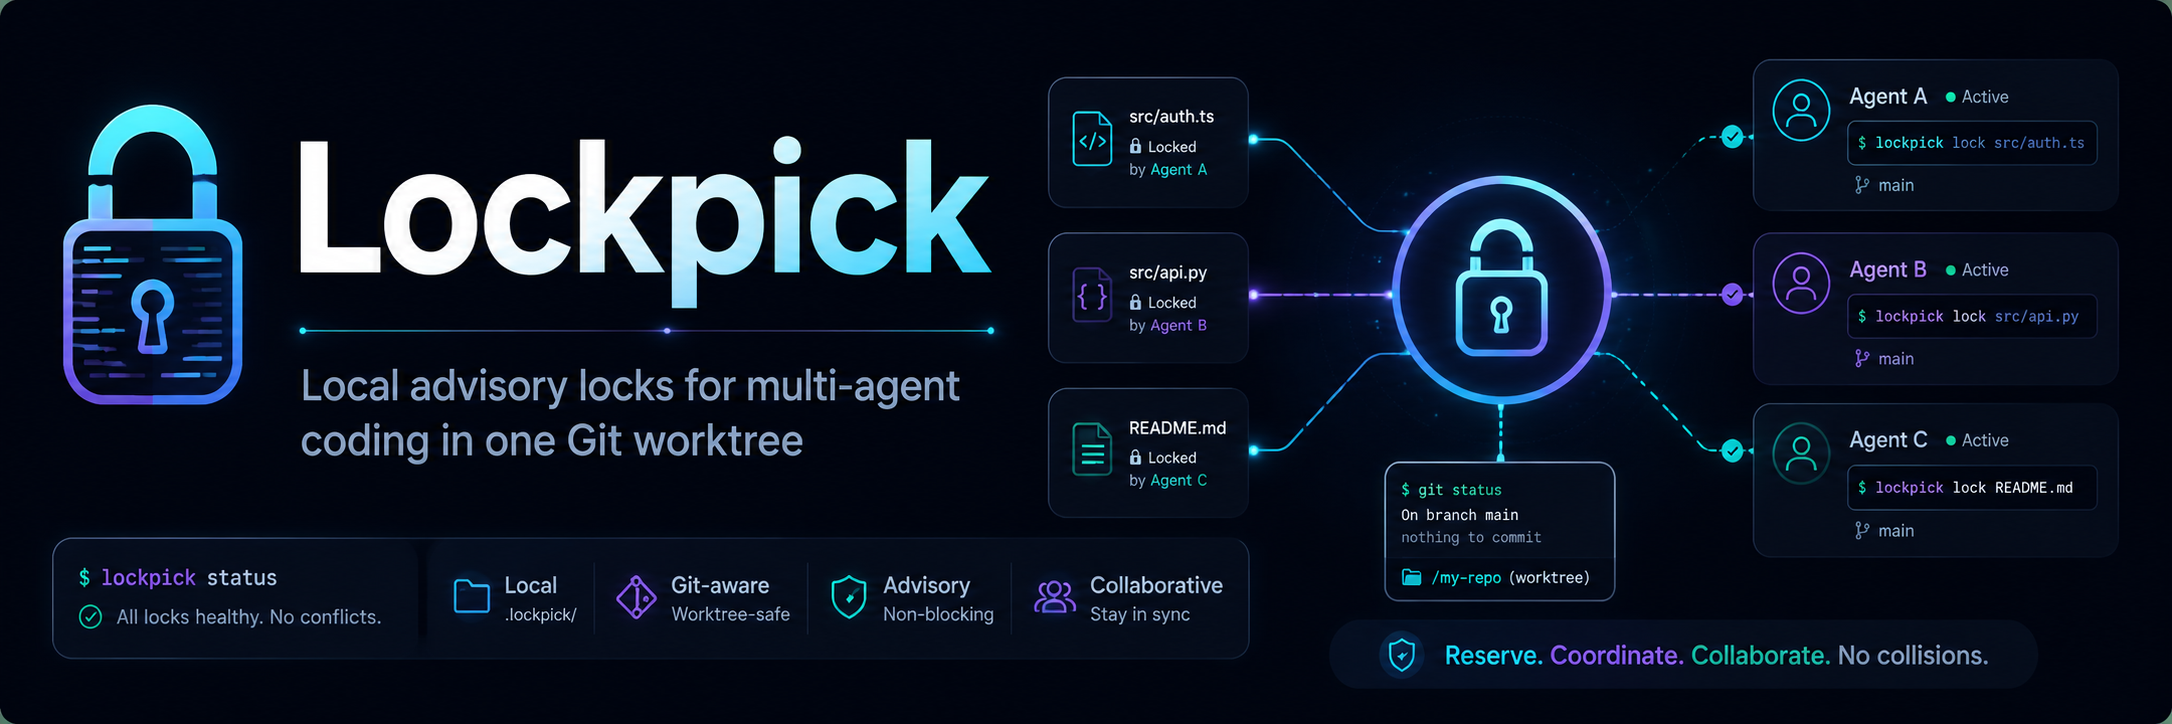
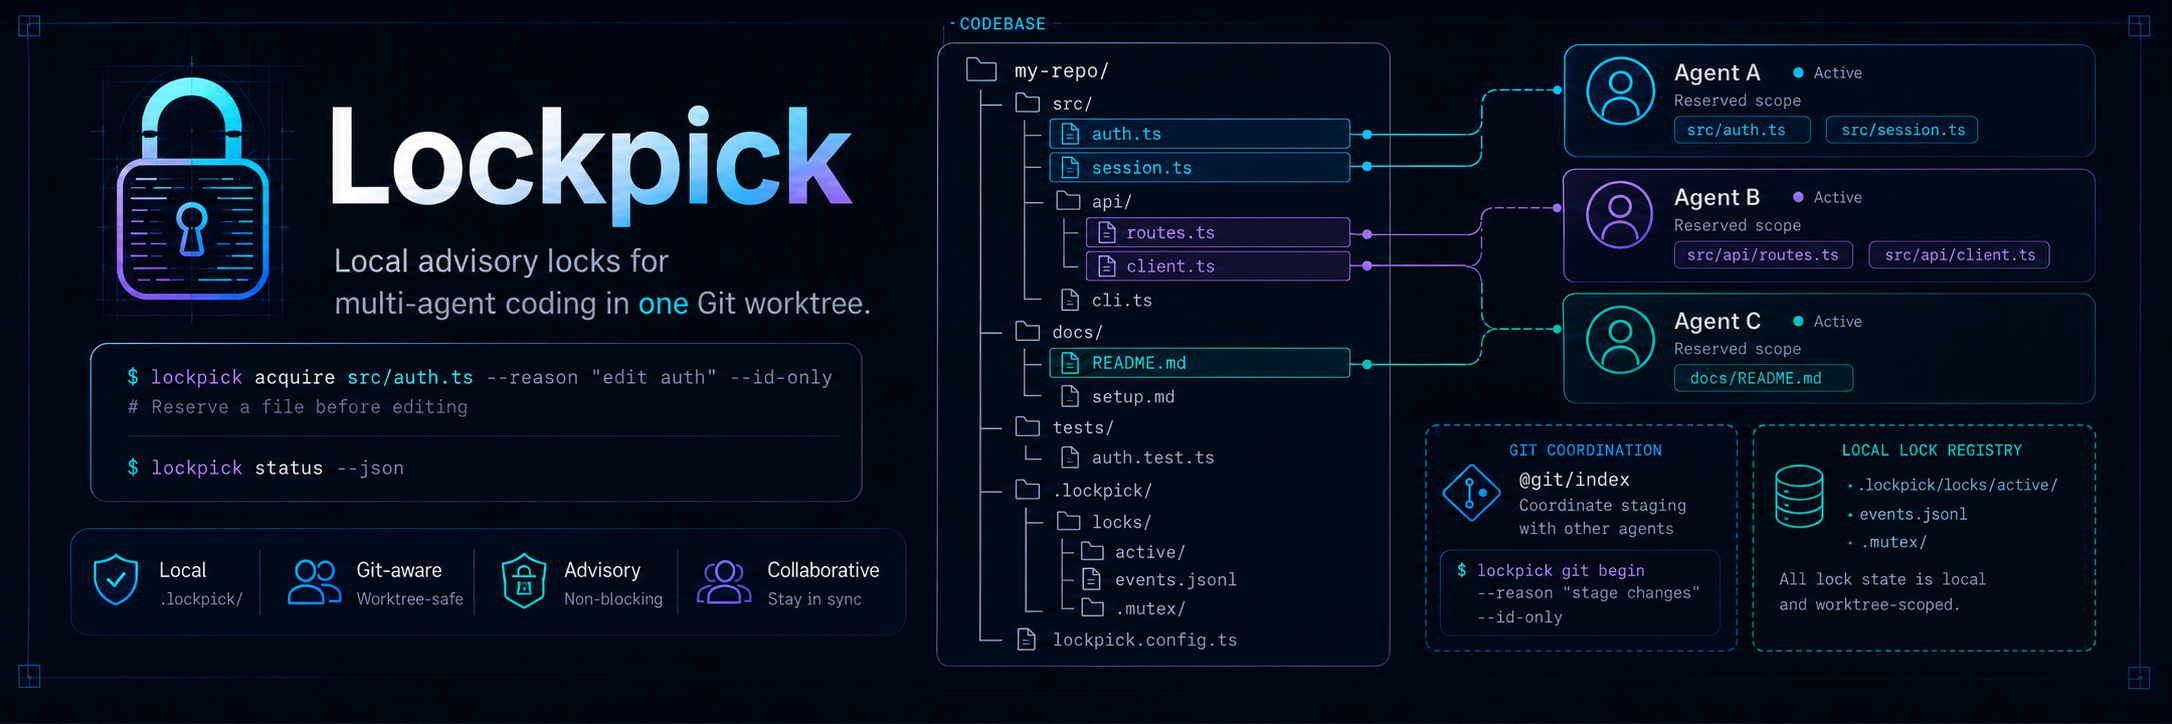
Notify interactive users about new versions

diff --git a/src/cli/update-notice.ts b/src/cli/update-notice.ts
@@ -1,0 +1,191 @@
+import { promises as fs } from "node:fs";
+import os from "node:os";
+import path from "node:path";
+import packageJson from "../../package.json";
+
+const PACKAGE_NAME = "@simke9445/lockpick";
+const REGISTRY_URL = "https://registry.npmjs.org/@simke9445%2flockpick/latest";
+const CACHE_TTL_MS = 24 * 60 * 60 * 1000;
+const FETCH_TIMEOUT_MS = 750;
+
+type FetchLike = (
+  url: string,
+  init: { headers: Record<string, string>; signal: AbortSignal },
+) => Promise<{
+  ok: boolean;
+  json: () => Promise<unknown>;
+}>;
+
+interface UpdateCache {
+  checkedAt: string;
+  latestVersion: string;
+}
+
+export interface UpdateNoticeOptions {
+  argv?: readonly string[];
+  cachePath?: string;
+  currentVersion?: string;
+  env?: NodeJS.ProcessEnv;
+  fetchImpl?: FetchLike;
+  now?: Date;
+  stderr?: Pick<NodeJS.WriteStream, "isTTY" | "write">;
+  timeoutMs?: number;
+}
+
+export async function maybePrintUpdateNotice(options: UpdateNoticeOptions = {}): Promise<void> {
+  const env = options.env ?? process.env;
+  const stderr = options.stderr ?? process.stderr;
+  const argv = options.argv ?? process.argv.slice(2);
+  if (!shouldCheckForUpdates({ argv, env, stderr })) return;
+
+  const currentVersion = options.currentVersion ?? packageJson.version;
+  const now = options.now ?? new Date();
+  const cachePath = options.cachePath ?? defaultUpdateCachePath(env);
+  const cached = await readUpdateCache(cachePath);
+
+  if (cached && now.getTime() - Date.parse(cached.checkedAt) < CACHE_TTL_MS) {
+    writeNoticeIfNewer(stderr, currentVersion, cached.latestVersion);
+    return;
+  }
+
+  const latestVersion = await fetchLatestVersion({
+    fetchImpl: options.fetchImpl ?? fetch,
+    timeoutMs: options.timeoutMs ?? FETCH_TIMEOUT_MS,
+  });
+  if (!latestVersion) return;
+
+  await writeUpdateCache(cachePath, {
+    checkedAt: now.toISOString(),
+    latestVersion,
+  });
+  writeNoticeIfNewer(stderr, currentVersion, latestVersion);
+}
+
+export function renderUpdateNotice(currentVersion: string, latestVersion: string): string {
+  return [
+    `New Lockpick version available: ${currentVersion} -> ${latestVersion}`,
+    `Update with: bun update -g --latest ${PACKAGE_NAME}`,
+    `npm users: npm install -g ${PACKAGE_NAME}@latest`,
+  ].join("\n");
+}
+
+export function isNewerVersion(latestVersion: string, currentVersion: string): boolean {
+  const latest = parseSemver(latestVersion);
+  const current = parseSemver(currentVersion);
+  if (!latest || !current) return latestVersion !== currentVersion;
+
+  for (const key of ["major", "minor", "patch"] as const) {
+    if (latest[key] > current[key]) return true;
+    if (latest[key] < current[key]) return false;
+  }
+
+  if (!latest.prerelease && current.prerelease) return true;
+  if (latest.prerelease && !current.prerelease) return false;
+  return Boolean(
+    latest.prerelease &&
+      current.prerelease &&
+      latest.prerelease.localeCompare(current.prerelease, undefined, { numeric: true }) > 0,
+  );
+}
+
+function shouldCheckForUpdates(options: {
+  argv: readonly string[];
+  env: NodeJS.ProcessEnv;
+  stderr: Pick<NodeJS.WriteStream, "isTTY" | "write">;
+}): boolean {
+  if (truthyEnv(options.env.LOCKPICK_DISABLE_UPDATE_CHECK)) return false;
+  if (truthyEnv(options.env.NO_UPDATE_NOTIFIER)) return false;
+  if (truthyEnv(options.env.LOCKPICK_UPDATE_CHECK)) return true;
+  if (truthyEnv(options.env.CI)) return false;
+  if (!options.stderr.isTTY) return false;
+  return !options.argv.includes("--json") && !options.argv.includes("--id-only");
+}
+
+async function fetchLatestVersion(options: {
+  fetchImpl: FetchLike;
+  timeoutMs: number;
+}): Promise<string | null> {
+  const controller = new AbortController();
+  const timeout = setTimeout(() => controller.abort(), options.timeoutMs);
+  try {
+    const response = await options.fetchImpl(REGISTRY_URL, {
+      headers: {
+        accept: "application/json",
+        "user-agent": `lockpick/${packageJson.version}`,
+      },
+      signal: controller.signal,
+    });
+    if (!response.ok) return null;
+    const payload = await response.json();
+    if (!isRecord(payload) || typeof payload.version !== "string") return null;
+    return payload.version;
+  } catch {
+    return null;
+  } finally {
+    clearTimeout(timeout);
+  }
+}
+
+async function readUpdateCache(cachePath: string): Promise<UpdateCache | null> {
+  try {
+    const payload = JSON.parse(await fs.readFile(cachePath, "utf8")) as unknown;
+    if (
+      isRecord(payload) &&
+      typeof payload.checkedAt === "string" &&
+      typeof payload.latestVersion === "string"
+    ) {
+      return { checkedAt: payload.checkedAt, latestVersion: payload.latestVersion };
+    }
+  } catch {
+    return null;
+  }
+  return null;
+}
+
+async function writeUpdateCache(cachePath: string, cache: UpdateCache): Promise<void> {
+  try {
+    await fs.mkdir(path.dirname(cachePath), { recursive: true });
+    await fs.writeFile(cachePath, `${JSON.stringify(cache, null, 2)}\n`, "utf8");
+  } catch {
+    // Update checks are opportunistic and must never affect lock commands.
+  }
+}
+
+function writeNoticeIfNewer(
+  stderr: Pick<NodeJS.WriteStream, "write">,
+  currentVersion: string,
+  latestVersion: string,
+): void {
+  if (!isNewerVersion(latestVersion, currentVersion)) return;
+  stderr.write(`${renderUpdateNotice(currentVersion, latestVersion)}\n`);
+}
+
+function defaultUpdateCachePath(env: NodeJS.ProcessEnv): string {
+  const cacheRoot = env.XDG_CACHE_HOME?.trim() || path.join(os.homedir(), ".cache");
+  return path.join(cacheRoot, "lockpick", "update-check.json");
+}
+
+function parseSemver(version: string): {
+  major: number;
+  minor: number;
+  patch: number;
+  prerelease: string | null;
+} | null {
+  const match = version.match(/^(\d+)\.(\d+)\.(\d+)(?:-([0-9A-Za-z.-]+))?(?:\+.+)?$/);
+  if (!match?.[1] || !match[2] || !match[3]) return null;
+  return {
+    major: Number(match[1]),
+    minor: Number(match[2]),
+    patch: Number(match[3]),
+    prerelease: match[4] ?? null,
+  };
+}
+
+function truthyEnv(value: string | undefined): boolean {
+  if (!value) return false;
+  return !["0", "false", "no", "off"].includes(value.trim().toLowerCase());
+}
+
+function isRecord(value: unknown): value is Record<string, unknown> {
+  return typeof value === "object" && value !== null && !Array.isArray(value);
+}

diff --git a/tests/update-notice.test.ts b/tests/update-notice.test.ts
@@ -1,0 +1,102 @@
+import { expect, test } from "bun:test";
+import { mkdtemp, rm } from "node:fs/promises";
+import os from "node:os";
+import path from "node:path";
+import {
+  isNewerVersion,
+  maybePrintUpdateNotice,
+  renderUpdateNotice,
+} from "../src/cli/update-notice";
+
+test("version comparison handles semver releases", () => {
+  expect(isNewerVersion("0.1.2", "0.1.1")).toBe(true);
+  expect(isNewerVersion("0.2.0", "0.1.9")).toBe(true);
+  expect(isNewerVersion("1.0.0", "0.9.9")).toBe(true);
+  expect(isNewerVersion("0.1.1", "0.1.1")).toBe(false);
+  expect(isNewerVersion("0.1.1", "0.1.2")).toBe(false);
+  expect(isNewerVersion("0.1.2", "0.1.2-beta.1")).toBe(true);
+  expect(isNewerVersion("0.1.2-beta.1", "0.1.2")).toBe(false);
+});
+
+test("renders update command guidance", () => {
+  expect(renderUpdateNotice("0.1.1", "0.1.2")).toContain(
+    "New Lockpick version available: 0.1.1 -> 0.1.2",
+  );
+  expect(renderUpdateNotice("0.1.1", "0.1.2")).toContain(
+    "bun update -g --latest @simke9445/lockpick",
+  );
+  expect(renderUpdateNotice("0.1.1", "0.1.2")).toContain(
+    "npm install -g @simke9445/lockpick@latest",
+  );
+});
+
+test("prints update notice when forced and registry has a newer version", async () => {
+  const workspace = await mkdtemp(path.join(os.tmpdir(), "lockpick-update-notice-"));
+  try {
+    const stderr = captureStderr(true);
+    await maybePrintUpdateNotice({
+      cachePath: path.join(workspace, "cache.json"),
+      currentVersion: "0.1.1",
+      env: { LOCKPICK_UPDATE_CHECK: "1" },
+      fetchImpl: async () => ({
+        ok: true,
+        json: async () => ({ version: "0.1.2" }),
+      }),
+      now: new Date("2026-05-27T10:00:00Z"),
+      stderr,
+    });
+
+    expect(stderr.output).toContain("New Lockpick version available: 0.1.1 -> 0.1.2");
+    expect(stderr.output).toContain("Update with: bun update -g --latest @simke9445/lockpick");
+  } finally {
+    await rm(workspace, { recursive: true, force: true });
+  }
+});
+
+test("skips update checks for machine-readable commands", async () => {
+  let called = false;
+  const stderr = captureStderr(true);
+  await maybePrintUpdateNotice({
+    argv: ["status", "--json"],
+    currentVersion: "0.1.1",
+    env: {},
+    fetchImpl: async () => {
+      called = true;
+      return { ok: true, json: async () => ({ version: "0.1.2" }) };
+    },
+    stderr,
+  });
+
+  expect(called).toBe(false);
+  expect(stderr.output).toBe("");
+});
+
+test("skips update checks outside interactive stderr by default", async () => {
+  let called = false;
+  const stderr = captureStderr(false);
+  await maybePrintUpdateNotice({
+    currentVersion: "0.1.1",
+    env: {},
+    fetchImpl: async () => {
+      called = true;
+      return { ok: true, json: async () => ({ version: "0.1.2" }) };
+    },
+    stderr,
+  });
+
+  expect(called).toBe(false);
+  expect(stderr.output).toBe("");
+});
+
+function captureStderr(isTTY: boolean): Pick<NodeJS.WriteStream, "isTTY" | "write"> & {
+  output: string;
+} {
+  return {
+    isTTY,
+    output: "",
+    write(chunk: string | Uint8Array) {
+      this.output += String(chunk);
+      return true;
+    },
+  } as Pick<NodeJS.WriteStream, "isTTY" | "write"> & { output: string };
+}

diff --git a/src/cli/index.ts b/src/cli/index.ts
@@ -4,6 +4,7 @@ import { lockExitCode, runLockCommand } from "./commands/lock";
 import { renderDoctorText, runDoctor } from "./doctor";
 import { helpText, parseCliArgs } from "./program";
 import { renderRobotDocsGuide } from "./robot-docs";
+import { maybePrintUpdateNotice } from "./update-notice";
 
 export async function main(argv: string[] = process.argv.slice(2)): Promise<void> {
   try {
@@ -49,6 +50,8 @@ export async function main(argv: string[] = process.argv.slice(2)): Promise<void
       console.error(`lockpick error: ${renderCliErrorMessage(message, suggestion)}`);
     }
     process.exitCode = exitCode;
+  } finally {
+    await maybePrintUpdateNotice({ argv });
   }
 }
 

diff --git a/README.md b/README.md
@@ -465,6 +465,20 @@ They normally should not. Lockpick checks supported harness identity first. Clau
 unsupported harness integrations or recovery from outside the original harness agent. Without any
 stable source, Lockpick falls back to a process-scoped id.
 
+### How do users know when to update?
+
+Interactive Lockpick commands check npm at most once per day and print a stderr notice when a
+newer version is available:
+
+```text
+New Lockpick version available: 0.1.1 -> 0.1.2
+Update with: bun update -g --latest @simke9445/lockpick
+npm users: npm install -g @simke9445/lockpick@latest
+```
+
+The update check is skipped for `--json`, `--id-only`, CI, and non-TTY runs so automation output
+stays parseable. Set `LOCKPICK_DISABLE_UPDATE_CHECK=1` to disable it completely.
+
 ### What happens in CI?
 
 Use `lockpick status --json`, `lockpick capabilities --json`, and `lockpick doctor --json` for